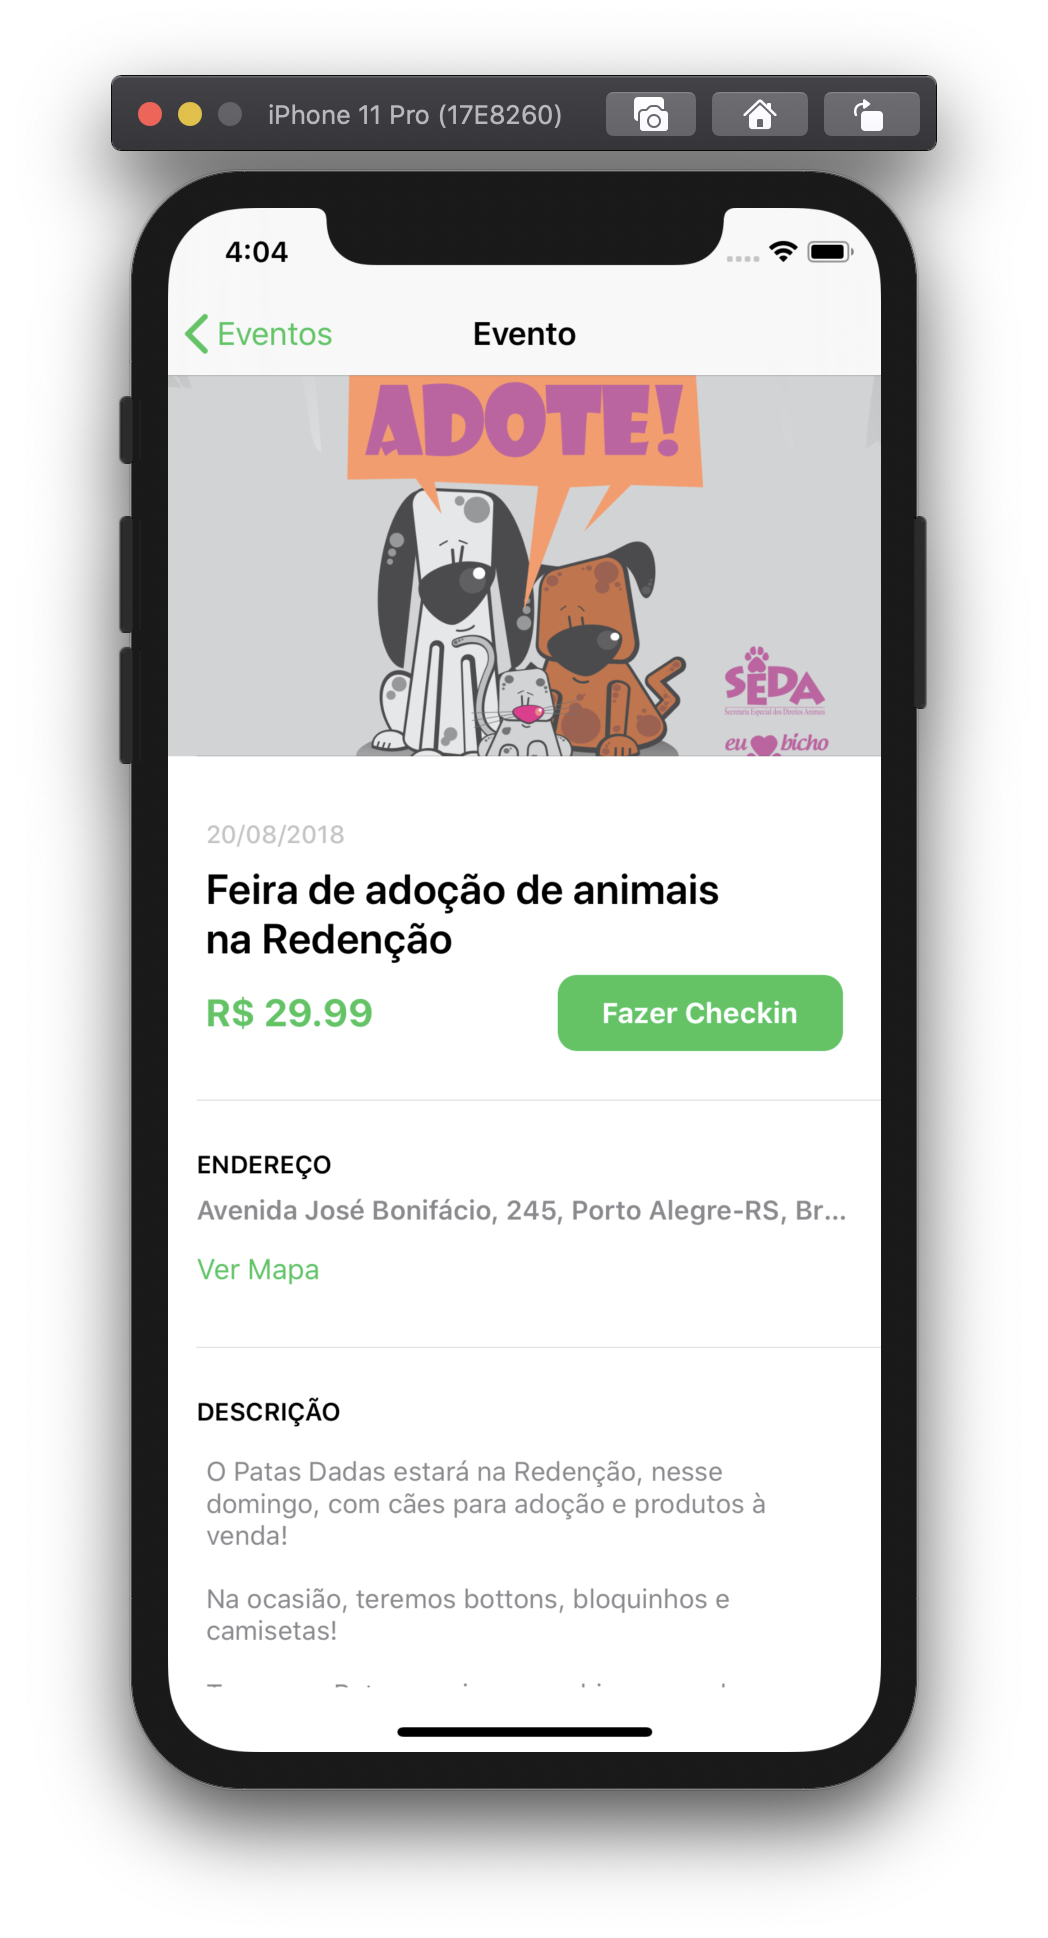
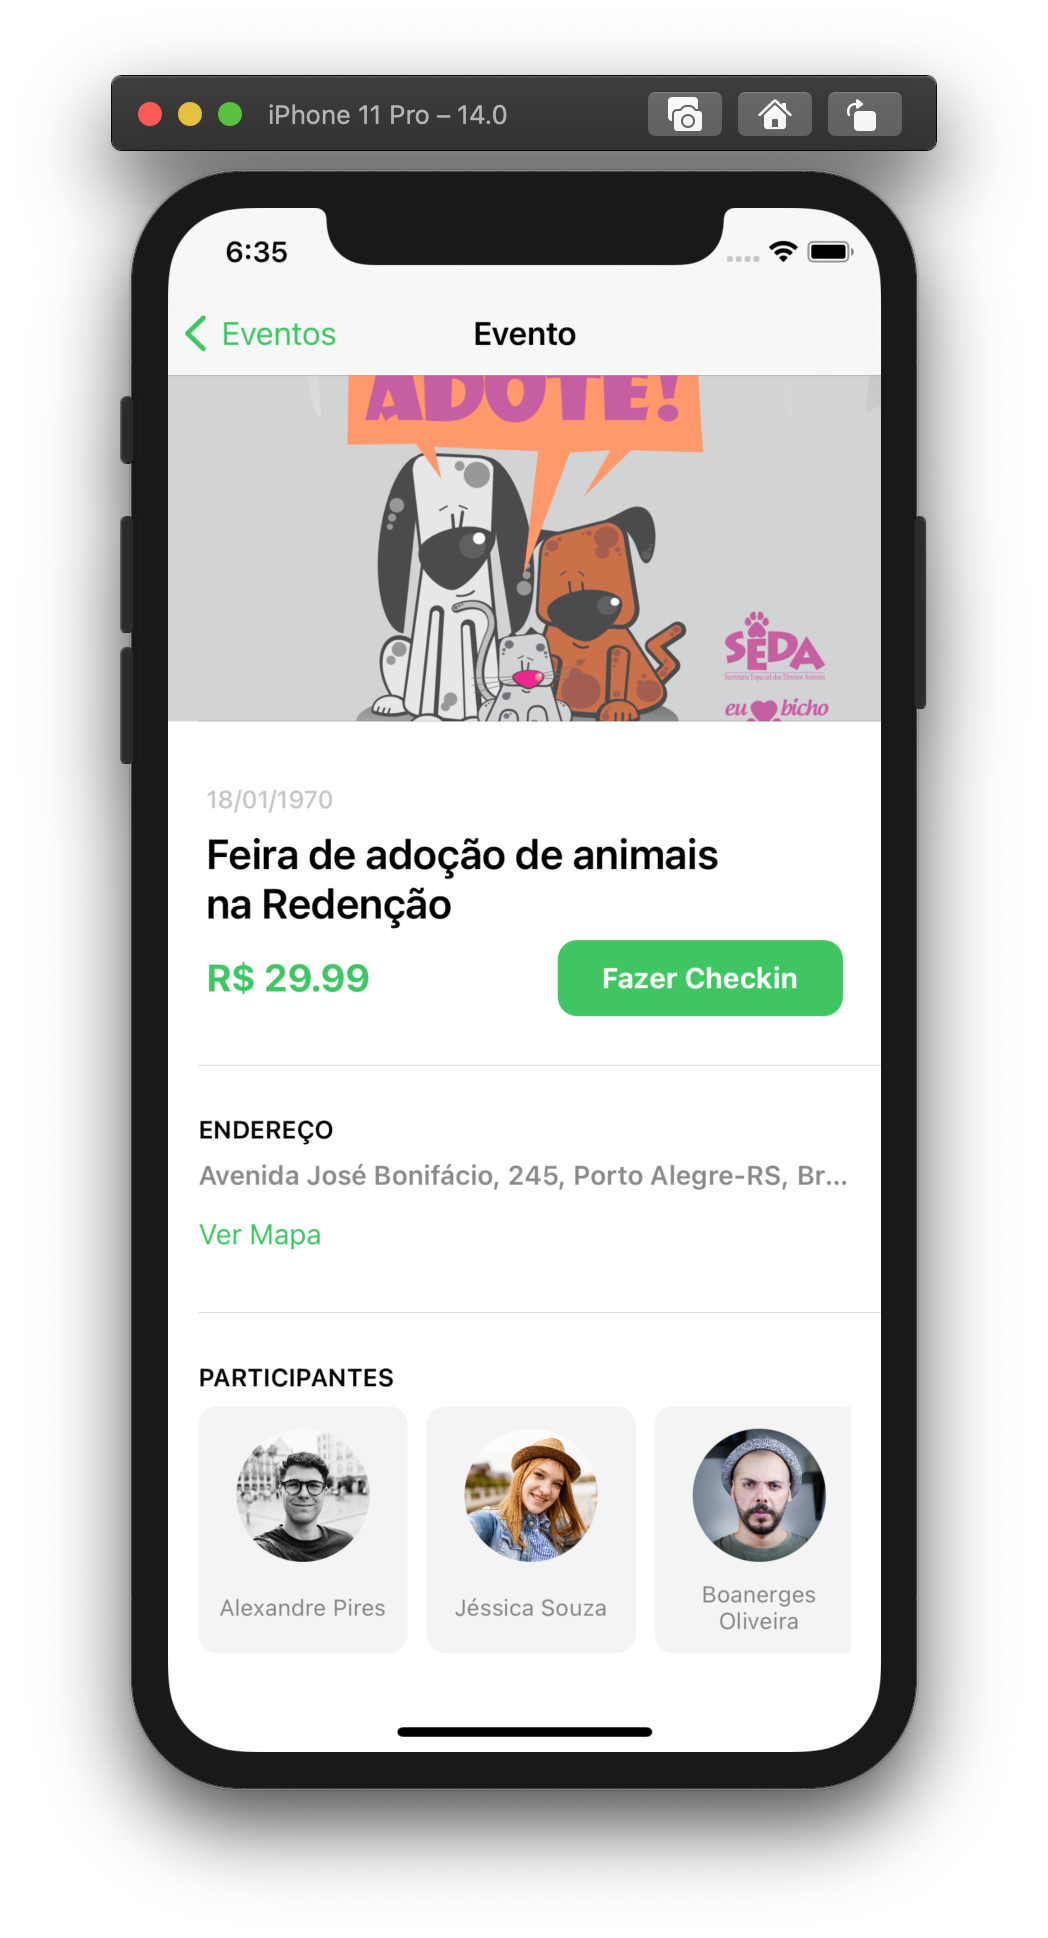
update readme and screenshots

diff --git a/README.md b/README.md
@@ -45,6 +45,7 @@ xed .
 * Smooth and async image loading
 * Integration with Apple Maps
 * Self-sizing TableViewCells
+* CollectionView inside TableViewCell
 
 _____
 
@@ -86,3 +87,4 @@ xed .
 * Carregamento suave e cacheado de imagens
 * Integração com Apple Maps
 * TableViewCells com tamanho automático
+* CollectionView dentro de uma TableViewCell
